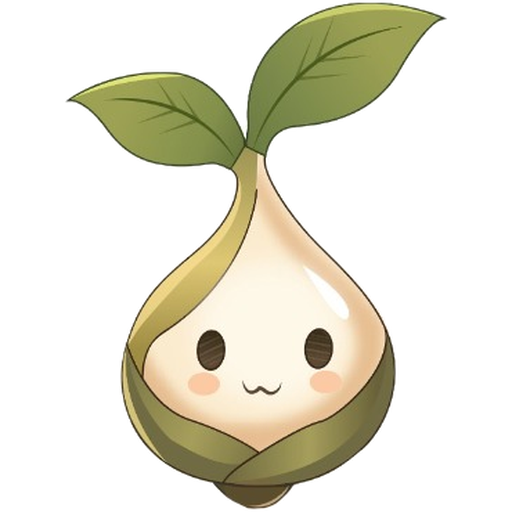
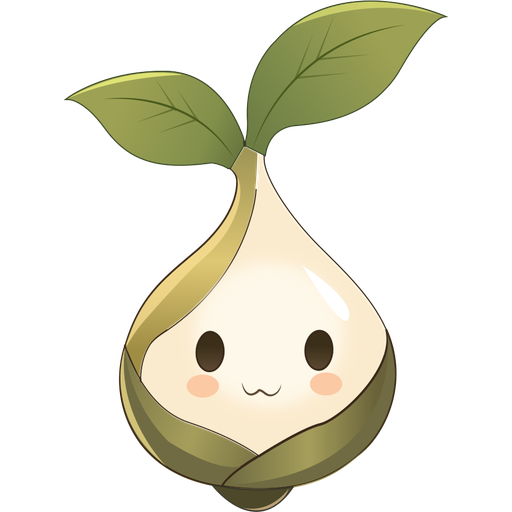
feat: build the mascot rasters from the artist's SVG masters
mascot_assets.py now rasterises the four SVGs (idle, greeting, empty-handed,
sprout) through ImageMagick instead of cutting the JPEG sheet. The SVGs are
already transparent, so the paper-silhouette and quadrant code is gone. The
bulb mark is still the sprout minus its motion ticks.

Regenerated the sprites, mark, favicons, app icons, brand.json's markDataUri
and the opengraph-service brand.go from them.

diff --git a/opengraph-service/internal/shim/brand.go b/opengraph-service/internal/shim/brand.go
@@ -7,4 +7,4 @@ package shim
 const AppName = "kodamachi"
 
 // MarkDataURI is the sprout mark as a square WebP, written by scripts/mascot_assets.py.
[2 lines of base64/hex data omitted]

diff --git a/scripts/mascot_assets.py b/scripts/mascot_assets.py
@@ -1,94 +1,75 @@
-"""Cut the coloured mascot sheet into every raster the brand ships.
+"""Rasterise the artist's SVG masters into every raster the brand ships.
 
-Run from the repo root: python3 scripts/mascot_assets.py <sheet>
+Run from the repo root: python3 scripts/mascot_assets.py <dir holding 1.svg..4.svg>
 Writes the pose sprites, the mark (client/public/mark.png and the header's sprout-mark.webp),
 the favicons and app icons, and brand.json's markDataUri for the server and opengraph-service
-templates. Rerun it on the lossless master when it arrives; everything here is derived.
+templates. Needs ImageMagick (with librsvg) on PATH. Everything here is derived.
 """
 import base64
 import io
 import json
+import subprocess
 import sys
 from pathlib import Path
 
-from PIL import Image, ImageDraw, ImageFilter, ImageOps
+from PIL import Image, ImageChops, ImageDraw, ImageFilter
 
-SRC = sys.argv[1] if len(sys.argv) > 1 else "Kodamachi Coloured version.jpeg"
+SRC = Path(sys.argv[1])
 PUBLIC = "client/public"
 OUT = f"{PUBLIC}/mascot"
 BRAND_JSON = "brand.json"
-COL_SPLIT = 740
-ROW_SPLIT = 925
-QUADRANTS = {
-    "idle": (0, 0, COL_SPLIT, ROW_SPLIT),
-    "greeting": (COL_SPLIT, 0, None, ROW_SPLIT),
-    "empty-handed": (0, ROW_SPLIT, COL_SPLIT, None),
-    "sprout": (COL_SPLIT, ROW_SPLIT, None, None),
-}
-PAPER_THRESHOLD = 236
-GAP_CLOSE = 5
-EDGE_SOFTEN = 1.2
-PAD = 6
+POSES = {"idle": "1.svg", "greeting": "2.svg", "empty-handed": "3.svg", "sprout": "4.svg"}
+RASTER_DENSITY = 192
+SOLID = 128
 SIZE = 640
 MARK_SIZE = 256
 MASTER_SIZE = 512
 INLINE_MARK_SIZE = 96
+BULB_FRINGE = 5
 PLATE = (255, 255, 255)
 APPLE_TOUCH_SCALE = 0.78
 MASKABLE_SCALE = 0.62
 
 
-def silhouette(rgb):
-    """Everything not reachable from the corner through near-white paper."""
-    ink = rgb.convert("L").point(lambda v: 255 if v < PAPER_THRESHOLD else 0)
-    sealed = ink.filter(ImageFilter.MaxFilter(GAP_CLOSE))
-    canvas = ImageOps.expand(sealed, border=1, fill=0)
-    ImageDraw.floodfill(canvas, (0, 0), 128)
-    canvas = canvas.crop((1, 1, canvas.width - 1, canvas.height - 1))
-    inside = canvas.point(lambda v: 0 if v == 128 else 255)
-    return inside.filter(ImageFilter.MinFilter(GAP_CLOSE))
+def rasterise(svg):
+    png = subprocess.run(
+        ["magick", "-background", "none", "-density", str(RASTER_DENSITY), str(svg), "png:-"],
+        check=True,
+        capture_output=True,
+    ).stdout
+    return Image.open(io.BytesIO(png)).convert("RGBA")
 
 
-def cut_out(rgb):
-    art = rgb.convert("RGBA")
-    art.putalpha(silhouette(rgb).filter(ImageFilter.GaussianBlur(EDGE_SOFTEN * 0.6)))
-    return art
-
-
-def bare_bulb(rgb):
-    """The bulb alone, without the motion ticks around it."""
-    shape = silhouette(rgb)
-    x0, y0, x1, y1 = shape.getbbox()
-    seed = ((x0 + x1) // 2, y0 + (y1 - y0) * 2 // 3)
-    ImageDraw.floodfill(shape, seed, 128)
-    bulb = shape.point(lambda v: 255 if v == 128 else 0)
-    art = rgb.convert("RGBA")
-    art.putalpha(bulb.filter(ImageFilter.GaussianBlur(EDGE_SOFTEN * 0.6)))
-    return art
-
-
-def largest_part(alpha):
-    """Bounding box of the biggest connected piece, i.e. the character without its companion."""
-    mask = alpha.point(lambda v: 255 if v > 128 else 0)
+def largest_part_mask(alpha):
+    """The biggest connected piece, i.e. the character without its companion."""
+    mask = alpha.point(lambda v: 255 if v > SOLID else 0)
     best, best_area = None, 0
     while (bb := mask.getbbox()) is not None:
         seed = next(
             (x, y) for y in range(bb[1], bb[3]) for x in range(bb[0], bb[2]) if mask.getpixel((x, y)) == 255
         )
-        ImageDraw.floodfill(mask, seed, 128)
-        part = mask.point(lambda v: 255 if v == 128 else 0)
+        ImageDraw.floodfill(mask, seed, SOLID)
+        part = mask.point(lambda v: 255 if v == SOLID else 0)
         area = sum(part.histogram()[255:])
         if area > best_area:
-            best, best_area = part.getbbox(), area
-        mask = mask.point(lambda v: 0 if v == 128 else v)
+            best, best_area = part, area
+        mask = mask.point(lambda v: 0 if v == SOLID else v)
     return best
+
+
+def bare_bulb(art):
+    """The bulb alone, without the motion ticks around it."""
+    keep = largest_part_mask(art.getchannel("A")).filter(ImageFilter.MaxFilter(BULB_FRINGE))
+    bulb = art.copy()
+    bulb.putalpha(ImageChops.darker(art.getchannel("A"), keep))
+    return bulb
 
 
 def square(img, size, bottom):
     """Square canvas centred on the character, wide enough to keep everything else in frame."""
     alpha = img.getchannel("A")
     bb = alpha.getbbox()
-    body = largest_part(alpha)
+    body = largest_part_mask(alpha).getbbox()
     centre = (body[0] + body[2]) / 2
     half_w = max(centre - bb[0], bb[2] - centre)
     s = round(max(2 * half_w, bb[3] - bb[1]))
@@ -131,14 +112,12 @@ def write_inline_mark(mark):
 
 
 Path(OUT).mkdir(parents=True, exist_ok=True)
-src = Image.open(SRC).convert("RGB")
-for name, (x0, y0, x1, y1) in QUADRANTS.items():
-    quad = src.crop((x0, y0, x1 or src.width, y1 or src.height))
-    quad = ImageOps.expand(quad, border=PAD, fill=(255, 255, 255))
+for name, svg in POSES.items():
+    art = rasterise(SRC / svg)
     bottom = name != "sprout"
-    square(cut_out(quad), SIZE, bottom).save(f"{OUT}/{name}.webp", quality=90, method=6)
+    square(art, SIZE, bottom).save(f"{OUT}/{name}.webp", quality=90, method=6)
     if name == "sprout":
-        mark = square(bare_bulb(quad), MASTER_SIZE, bottom)
+        mark = square(bare_bulb(art), MASTER_SIZE, bottom)
         write_brand_rasters(mark)
         write_inline_mark(mark)
     print(name, "ok")

diff --git a/docs/design-tokens.md b/docs/design-tokens.md
@@ -77,7 +77,7 @@ sits behind it.
 The redesign is the Claude Design handoff vendored at `docs/design/kodamachi-handoff/`
 (`Kodamachi Foundations.dc.html` holds the palette, type and chrome rules; `github.md`
 maps each screen to the files under `client/src`). The handoff reserves mascot slots;
-the artist's sheet fills them (idle, cheering, sad, and the sprout bulb). The rules
+the artist's SVGs fill them (idle, cheering, sad, and the sprout bulb). The rules
 that matter for code:
 
 - **Two hues plus danger.** Navy (`#10224A`) and Link (`#234B94`) carry every state;
@@ -86,7 +86,7 @@ that matter for code:
   shadows exist only for things that float (menus, modals, toasts). In dark mode
   elevation becomes the `--ds-line-dark` border.
 - **One focus ring**: 2px Link with a 2px offset, set globally on `:focus-visible`.
-- **The mark is the sprout bulb** from the mascot sheet, with no tile, border or
+- **The mark is the sprout bulb** from the mascot art, with no tile, border or
   motion ticks. It is a raster, not an outline. `scripts/mascot_assets.py` writes
   every copy: `public/mascot/sprout-mark.webp` (`BrandMark.tsx`), `public/mark.png`
   (512px master), the favicons and app icons (the iOS and maskable ones on a paper

diff --git a/CLAUDE.md b/CLAUDE.md
@@ -40,10 +40,9 @@ inline mark come from the root `brand.json`; the domains in it are deployment-ti
 still point at the current host until the cutover in #388.
 
 Every mascot and mark raster (pose sprites, `mark.png`, favicons, app icons,
-`brand.json`'s `markDataUri`) is derived by `python3 scripts/mascot_assets.py <sheet>`.
-Never edit one by hand; rerun the script. The current sheet is a JPEG, so rerun it
-when the lossless master arrives, then `go generate ./internal/...` in
-`opengraph-service/`.
+`brand.json`'s `markDataUri`) is derived by `python3 scripts/mascot_assets.py <dir of the four SVG masters>`
+(needs ImageMagick with librsvg). Never edit one by hand; rerun the script, then
+`go generate ./internal/...` in `opengraph-service/`.
 
 ## What this app does
 

diff --git a/client/CLAUDE.md b/client/CLAUDE.md
@@ -54,7 +54,7 @@ from "./Thing.styles"`). Anything computed from props is a named function there,
 - **The mark is the sprout bulb, bare.** No tile and no border behind it; the art's
   own outline carries it on both schemes. `BrandMark` and `Mascot` render the
   sprites in `public/mascot/`, which `scripts/mascot_assets.py` cuts from the
-  artist's sheet, so fix a sprite there, not in an image editor. Sprites are
+  artist's SVG masters, so fix a sprite there, not in an image editor. Sprites are
   centred on the character, not on the character plus companion. The design
   source is `docs/design/kodamachi-handoff/`.
 - **No component calls `useComputedColorScheme` to choose a colour** — light values
